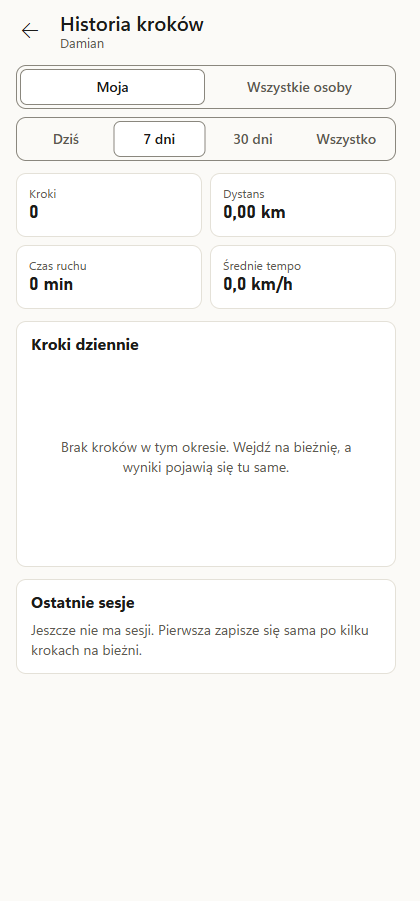
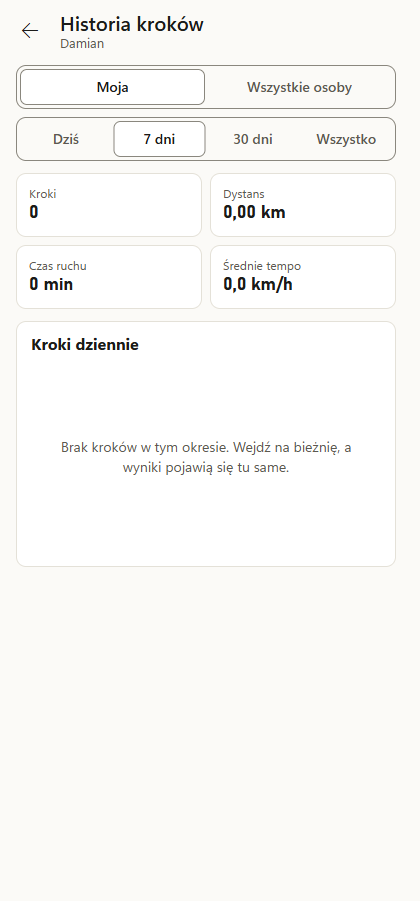
0.6.0 interfejs: Historia kroków i Szczegóły sesji - poprawki po przeglądzie
- „Jeszcze nie ma sesji” tylko w zakresie Wszystko; w krótszym zakresie bez sesji karta
  Ostatnie sesje znika (np. Dziś po wczorajszym spacerze tekst był nieprawdziwy, a pusty okres
  opisuje już wykres).
- Tytuł wykresu (w ciągu dnia / dziennie) z pokazanych danych, nie z wybranego zakresu - do
  odpowiedzi rdzenia tytuł nie rozjeżdża się ze starym wykresem.
- Etykiety osi X: przy lewej krawędzi napis może wejść pod kolumnę osi Y (inaczej druga
  etykieta odpadała); rozmiar pisma osi mierzony ponownie po zmianie „Dużego tekstu”.
- Zrzuty history i session odświeżone.

Changed region(s): [[0.0619, 0.6526, 0.8667, 0.7458]]

diff --git a/walklevel/src/ekrany/Historia.svelte b/walklevel/src/ekrany/Historia.svelte
@@ -44,6 +44,8 @@
   const wszyscy = $derived(widok?.everyone ?? false);
   const podpis = $derived(wiele ? (czyja === 'all' ? t('historia.czyja.wszyscy') : (osoba?.name ?? '')) : '');
   const sumy = $derived(widok?.totals ?? null);
+  /** Tytuł wykresu z pokazanych danych (nie z wybranego zakresu - do odpowiedzi zostaje stary wykres). */
+  const godzinowy = $derived(widok ? widok.chart.hourly : zakres === 'day');
 
   const ZAKRESY: Array<{ wartosc: K.HistoryRange; napis: string }> = [
     { wartosc: 'day', napis: t('historia.zakres.dzis') },
@@ -84,7 +86,7 @@
       <KafelekStatystyki tytul={t('historia.suma.srednio')} wartosc={sumy ? zJednostka(sumy.avgKmh, 'km/h', 1) : null} />
     </SiatkaKafelkow>
 
-    <Karta tytul={t(zakres === 'day' ? 'historia.wykres.dzien' : 'historia.wykres.dni')}>
+    <Karta tytul={t(godzinowy ? 'historia.wykres.dzien' : 'historia.wykres.dni')}>
       {#if widok}
         <WykresKrokow wykres={widok.chart} {teraz} />
       {:else}
@@ -120,7 +122,9 @@
       </Karta>
     {/if}
 
-    {#if widok}
+    <!-- „Jeszcze nie ma sesji” tylko dla zakresu Wszystko - w krótszym zakresie starsze sesje mogą
+         być (np. Dziś bez sesji po wczorajszym spacerze), a pusty okres opisuje już wykres -->
+    {#if widok && (widok.recent.length || widok.query.range === 'all')}
       <Karta tytul={t('historia.sesje.tytul')}>
         {#if widok.recent.length}
           <ul class="sesje">

diff --git a/walklevel/src/ekrany/Historia/WykresKrokow.svelte b/walklevel/src/ekrany/Historia/WykresKrokow.svelte
@@ -20,6 +20,7 @@
   import type { HistoryChart } from '../../lib/typy';
   import { t } from '../../lib/teksty';
   import { liczba } from '../../lib/format';
+  import { stan } from '../../lib/stan.svelte';
 
   interface Props {
     wykres: HistoryChart;
@@ -39,6 +40,7 @@
   let pismo = $state(11);
   $effect(() => {
     void szer;
+    void stan.settings.largeText;
     pismo = parseFloat(getComputedStyle(pole).fontSize) || 11;
   });
   /** Przybliżona szerokość napisu osi (bez pomiaru DOM przy każdej zmianie). */
@@ -101,12 +103,13 @@
       const w = dlugosc(k.tekst);
       let x = lewa + slot * (k.i + 0.5);
       let kotwica: Etykieta['kotwica'] = 'middle';
-      // przy krawędziach napis nie wychodzi poza wykres ani pod etykiety osi Y
+      // przy krawędziach napis nie wychodzi poza wykres; z lewej może wejść pod kolumnę osi Y
+      // (etykiety osi Y kończą się na linii 0, wyżej) - inaczej druga etykieta odpadałaby
       if (x + w / 2 > szer) {
         x = szer;
         kotwica = 'end';
-      } else if (x - w / 2 < lewa - 4) {
-        x = lewa - 4;
+      } else if (x - w / 2 < 0) {
+        x = 0;
         kotwica = 'start';
       }
       const srodek = srodekNapisu(x, kotwica, w);
